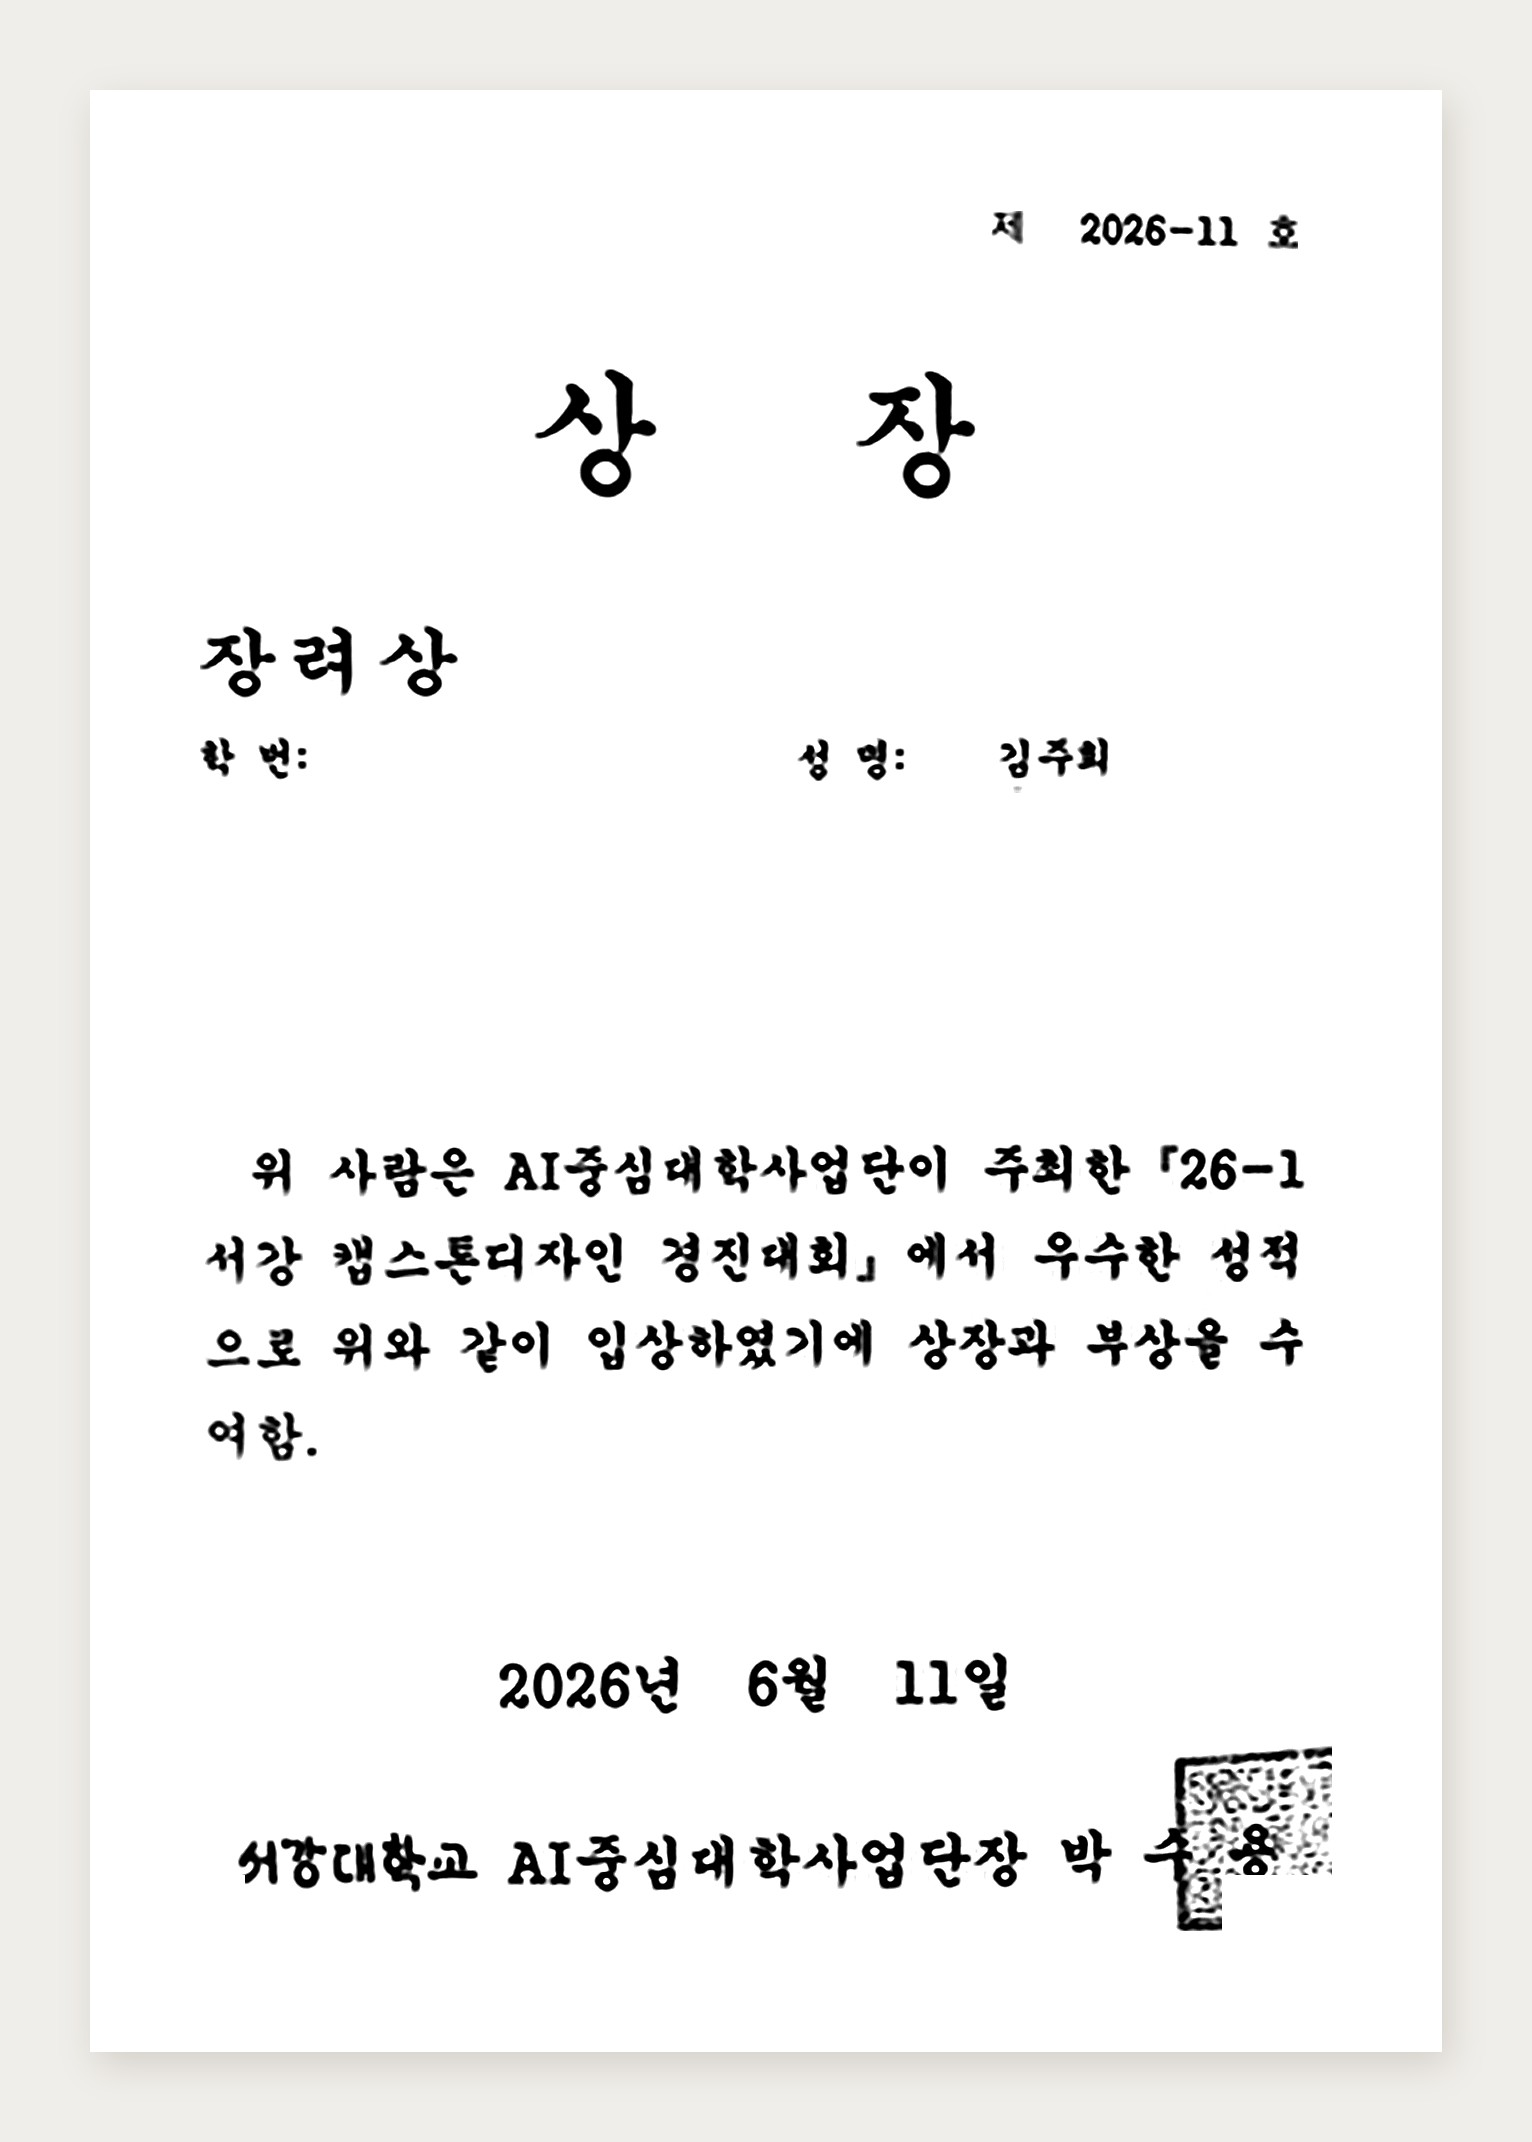
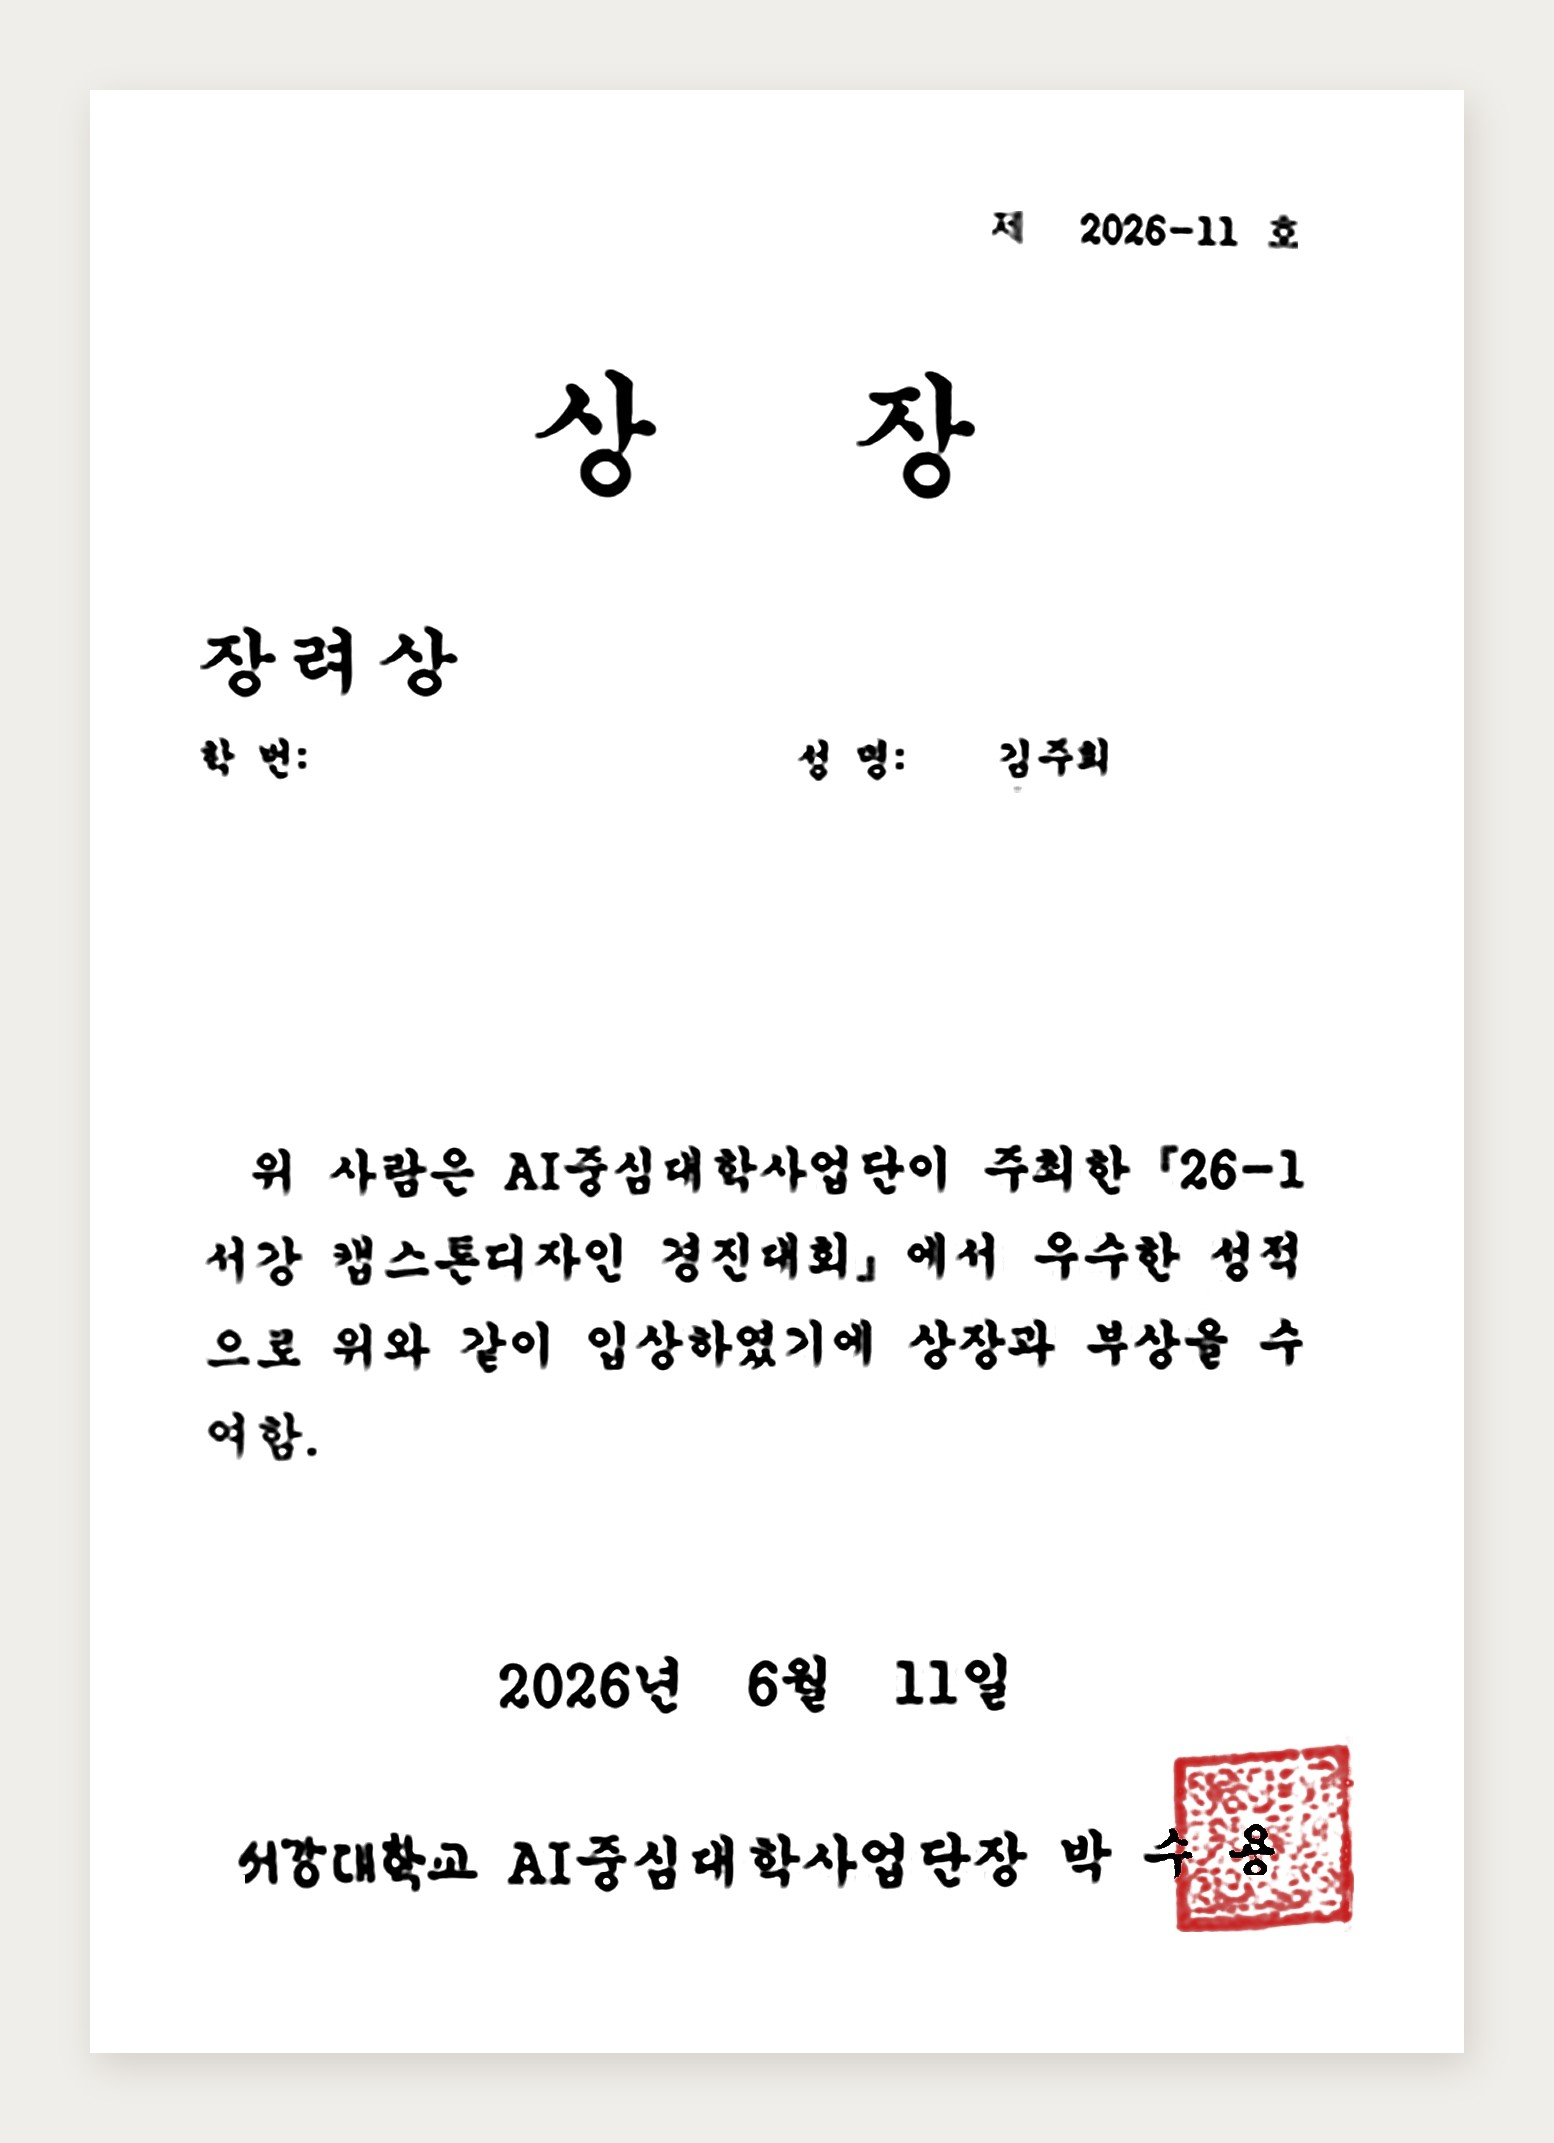
feat: works 카드 제목 볼드, SGCC 카드에 통통 튀는 키캡 추가, 상장 도장 복원
Claude-Session: https://claude.ai/code/session_01Gce1j5wTpgR1L5r5cC4JBm

diff --git a/src/assets/css/style.css b/src/assets/css/style.css
@@ -259,7 +259,7 @@ main { display: block; min-height: 70vh; }
 .wc { display: grid; grid-row: span 2; grid-template-rows: subgrid; }
 .wc > a { display: grid; grid-row: span 2; grid-template-rows: subgrid; }
 .wc-cap { align-self: end; padding: 0 clamp(16px, 2vw, 32px) 24px 0; }
-.wc-t { margin: 0; font-weight: 300; font-size: clamp(17px, 1.3vw, 21px); line-height: 1.45; letter-spacing: .01em; }
+.wc-t { margin: 0; font-weight: 700; font-size: clamp(17px, 1.3vw, 21px); line-height: 1.45; letter-spacing: .01em; }
 .wc-tag { margin: 12px 0 0; font-size: 13px; font-weight: 400; letter-spacing: .02em; text-transform: uppercase; }
 .wc-media { position: relative; aspect-ratio: 4 / 3; overflow: hidden; background: var(--paper-2); margin-bottom: clamp(72px, 9vw, 140px); }
 .wc-media img { width: 100%; height: 100%; object-fit: cover; transition: transform 1.2s var(--ease); }
@@ -318,6 +318,7 @@ main { display: block; min-height: 70vh; }
 /* 제목 옆 캐릭터: 통통 튀기 */
 .pj-t-last { white-space: nowrap; }
 .pj-t-icon { display: inline-block; height: 1.5em; width: auto; margin-left: .3em; vertical-align: -.3em; transform-origin: 50% 100%; }
+.wc-t .pj-t-icon { height: 1.35em; margin-left: .3em; vertical-align: -.3em; }
 .motion .pj-t-icon { animation: hop 1.4s cubic-bezier(.3, 0, .3, 1) infinite; }
 @keyframes hop { 0%, 100% { transform: translateY(0) scale(1.06, .94); } 15% { transform: translateY(0) scale(1); } 45% { transform: translateY(-38%) scale(.97, 1.03); } 70% { transform: translateY(0) scale(1); } 80% { transform: translateY(0) scale(1.08, .92); } }
 .pj-ko { grid-column: 1 / span 8; margin: 16px 0 0; font-weight: 300; font-size: clamp(18px, 1.8vw, 26px); }
